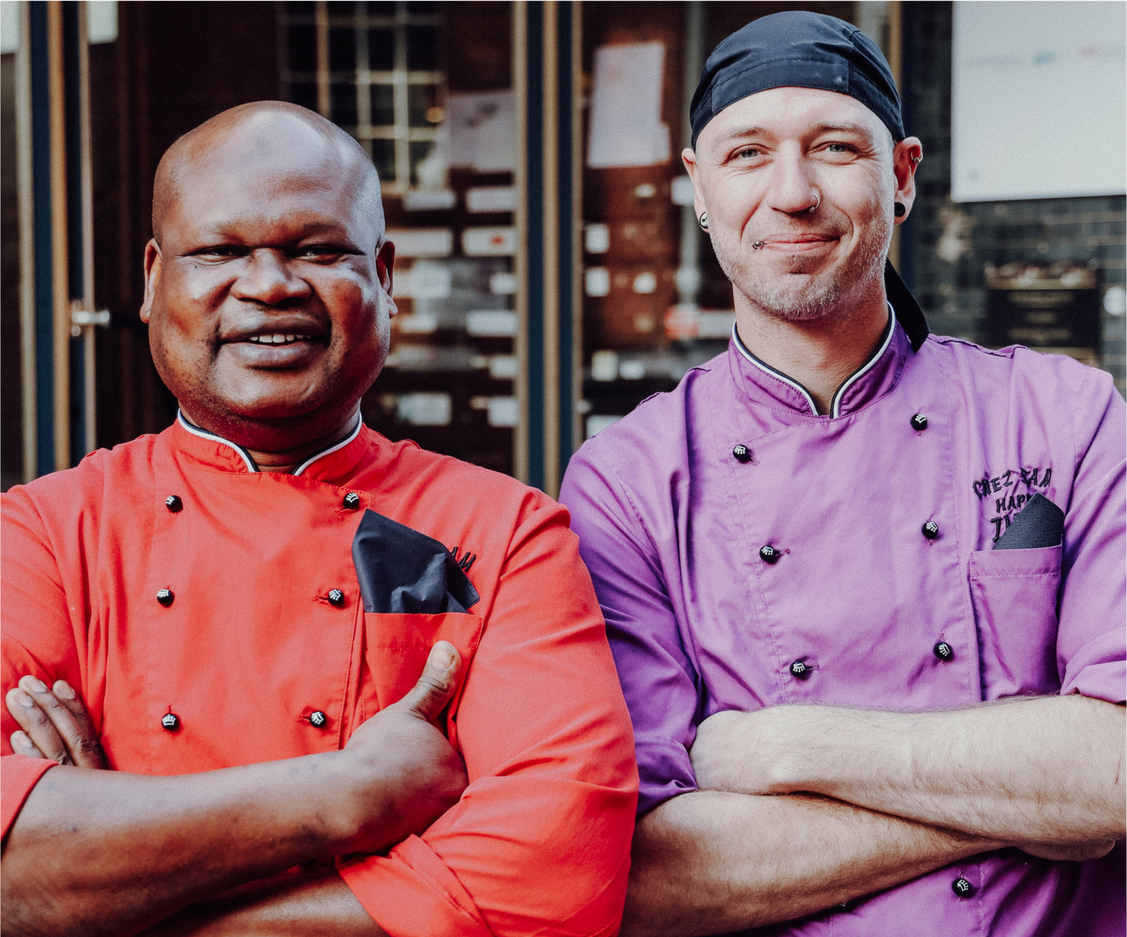
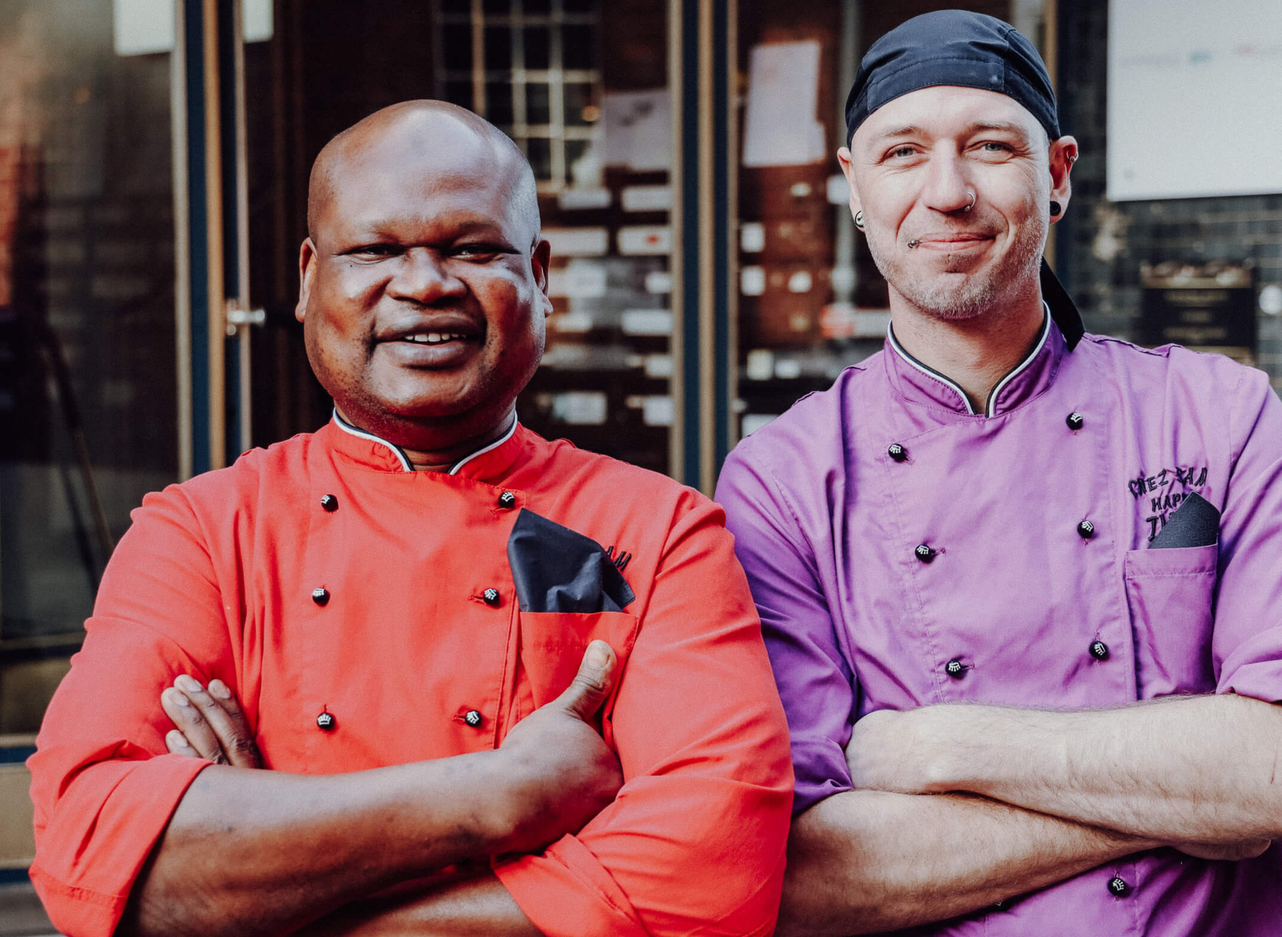
fix: update header and hero styles

diff --git a/src/components/Header/index.tsx b/src/components/Header/index.tsx
@@ -4,14 +4,23 @@ import * as styles from './styles.module.scss'
 
 export const Header = () => {
     return (
-        <nav className={styles.container}>
-            <ul className={styles.navList}>
-                <li className={styles.navItem}><a href="/">Home</a></li>
-                <li className={styles.navItem}><a href="#menu">Menu</a></li>
-                <li className={styles.navItem}><a href="#reservieren">Reservieren</a></li>
-                <li className={styles.navItem}><a href="#about">Über uns</a></li>
-            </ul>
-            <Button buttonLabel="Jetzt Tisch buchen" buttonHref="#reservieren" buttonColor="buttonRed"/>
+        <nav className={styles.root}>
+            <div className={styles.desktopNavigation}>
+                <ul className={styles.navList}>
+                    <li className={styles.navItem}><a href="/">Home</a></li>
+                    <li className={styles.navItem}><a href="#menu">Menu</a></li>
+                    <li className={styles.navItem}><a href="#reservieren">Reservieren</a></li>
+                    <li className={styles.navItem}><a href="#about">Über uns</a></li>
+                </ul>
+            </div>
+            <div className={styles.mobileNavigation}>
+                <a href="#home">
+                    <svg viewBox="0 0 20 13" fill="none" xmlns="http://www.w3.org/2000/svg">
+                        <path d="M11 11.745C11 11.331 10.664 10.995 10.25 10.995H0.75C0.336 10.995 0 11.331 0 11.745C0 12.159 0.336 12.495 0.75 12.495H10.25C10.664 12.495 11 12.159 11 11.745ZM20 6.745C20 6.331 19.664 5.995 19.25 5.995H0.75C0.336 5.995 0 6.331 0 6.745C0 7.159 0.336 7.495 0.75 7.495H19.25C19.664 7.495 20 7.159 20 6.745ZM16 1.745C16 1.331 15.664 0.994995 15.25 0.994995H0.75C0.336 0.994995 0 1.331 0 1.745C0 2.159 0.336 2.495 0.75 2.495H15.25C15.664 2.495 16 2.159 16 1.745Z" fill="white" />
+                    </svg>
+                </a>
+            </div>
+            <Button buttonLabel="Jetzt Tisch buchen" buttonHref="#reservieren" buttonColor="buttonRed" />
         </nav>
     )
 };

diff --git a/src/components/Hero/styles.module.scss b/src/components/Hero/styles.module.scss
@@ -5,7 +5,7 @@
     flex-direction: column-reverse;
     background-color: $mainBackgroundColor;
     height: 100%;
-    padding: 110px 20px 20px;
+    padding: 90px 20px 40px;
 
     @media (min-width: 991px) {
         flex-direction: row;
@@ -37,6 +37,11 @@
         }
 
         @media (min-width: 1080px) {
+            max-width: 300px;
+            max-height: 300px;
+        }
+
+        @media (min-width: 1600px) {
             max-width: 350px;
             max-height: 350px;
         }
@@ -68,9 +73,12 @@
         line-height: 125%;
         text-align: center;
         color: $textColor;
-        padding-top: 20px;
+        padding-top: 10px;
 
         @media (min-width: 768px) {
+            width: 80%;
+            padding-top: 20px;
+            margin: 0 auto;
             font-size: 18px;
         }
 
@@ -90,9 +98,10 @@
     }
 
     .image {
-        height: 450px;
+        height: 350px;
+        object-position: top;
 
-        @media (min-width: 768px) {
+        @media (min-width: 991px) {
             height: auto;
         }
     }

diff --git a/src/components/Header/styles.module.scss b/src/components/Header/styles.module.scss
@@ -1,19 +1,48 @@
 @use '../../styles/constants.scss' as *;
 
-.container {
+.root {
     display: flex;
     justify-content: space-between;
-    padding: 25px 40px;
+    width: 100%;
+    box-sizing: border-box;
+    padding: 20px;
     background-color: $mainBackgroundColor;
     position: fixed;
-    box-sizing: border-box;
     z-index: 1;
-    width: 100%;
+
+    @media (min-width: 768px) {
+        padding: 20px 40px;
+    }
+}
+
+.desktopNavigation {
+    display: none;
+
+    @media (min-width: 768px) {
+        display: initial;
+    }
+}
+
+.mobileNavigation {
+    height: 100%;
+    align-self: center;
+
+    @media (min-width: 768px) {
+        display: none;
+    }
+
+    a {
+        svg {
+            width: 40px;
+        }
+    }
+
 }
 
 .navList {
     display: flex;
     align-items: center;
+    height: 100%;
 }
 
 .navItem {

diff --git a/src/images/hero/HeroImage.tsx b/src/images/hero/HeroImage.tsx
@@ -1,0 +1,10 @@
+import React from "react"
+import { StaticImage } from "gatsby-plugin-image"
+
+type ImageProps = {
+    classes: string;
+}
+
+export const HeroImage = ({ classes }: ImageProps) => {
+    return <StaticImage src="../hero-image.jpg" alt="A dinosaur" layout="constrained" className={classes} objectPosition="top" />
+}

diff --git a/src/images/columns/Location.tsx b/src/images/columns/Location.tsx
@@ -6,5 +6,5 @@ type ImageProps = {
 }
 
 export const HeroImage = ({ classes }: ImageProps) => {
-    return <StaticImage src="./hero-image.jpg" alt="A dinosaur" layout="constrained" className={classes} />
+    return <StaticImage src="../hero-image.jpg" alt="A dinosaur" layout="constrained" className={classes} />
 }

diff --git a/src/components/Button/styles.module.scss b/src/components/Button/styles.module.scss
@@ -1,8 +1,14 @@
 .button {
     display: block;
-    padding: 20px 40px;
+    padding: 15px 20px;
     text-decoration: none;
     color: #fff;
+
+    @media (min-width: 768px) {
+        padding: 20px 40px;
+    }
+
+
 }
 
 .buttonRed {

diff --git a/src/components/Hero/index.tsx b/src/components/Hero/index.tsx
@@ -1,6 +1,6 @@
 import React from "react";
 
-import { HeroImage } from "../../images/HeroImage";
+import { HeroImage } from "../../images/hero/HeroImage";
 
 import * as styles from './styles.module.scss'
 
